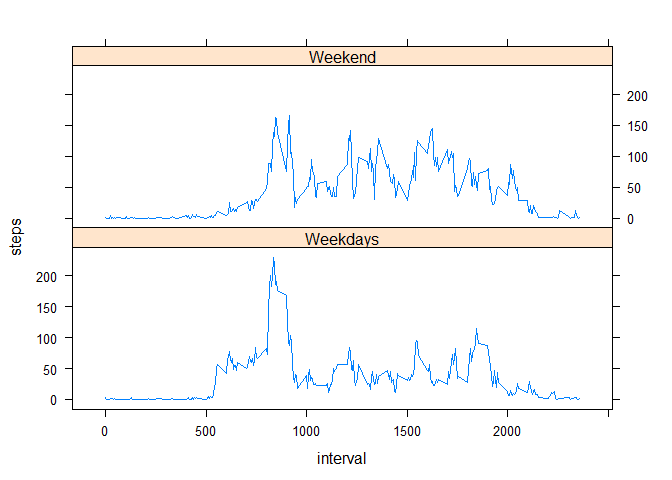
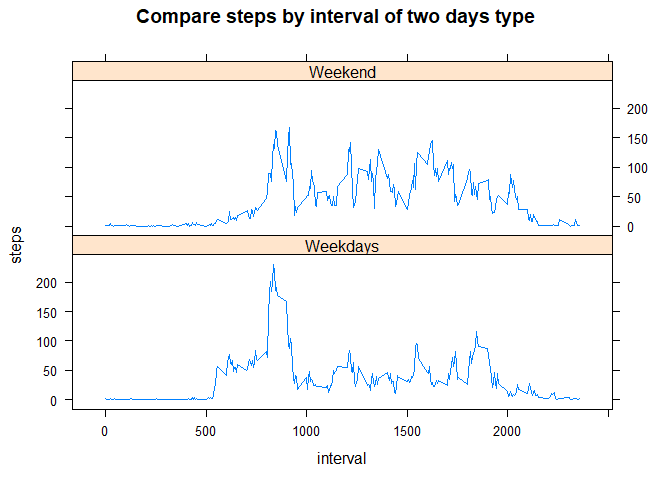
summit project fix2

diff --git a/PA1_template.html b/PA1_template.html
@@ -162,14 +162,18 @@ with(stepsPerInterval,plot(x = interval,y = steps,type=&quot;l&quot;))</code></p
 </div>
 <div id="which-5-minute-interval-on-average-across-all-the-days-in-the-dataset-contains-the-maximum-number-of-steps" class="section level3">
 <h3>2.Which 5-minute interval, on average across all the days in the dataset, contains the maximum number of steps?</h3>
-<pre class="r"><code>maxStepsInterval &lt;- stepsPerInterval$interval[which.max(stepsPerInterval$steps)]</code></pre>
+<pre class="r"><code>maxStepsInterval &lt;- stepsPerInterval$interval[which.max(stepsPerInterval$steps)]
+print(maxStepsInterval)</code></pre>
+<pre><code>## [1] 835</code></pre>
 </div>
 </div>
 <div id="imputing-missing-values" class="section level2">
 <h2>Imputing missing values</h2>
 <div id="calculate-and-report-the-total-number-of-missing-values-in-the-dataset-i.e.the-total-number-of-rows-with-nas" class="section level3">
 <h3>1.Calculate and report the total number of missing values in the dataset (i.e. the total number of rows with NAs)</h3>
-<pre class="r"><code>missing &lt;- nrow(dat_activity[!is.na(dat_activity),])</code></pre>
+<pre class="r"><code>missing &lt;- nrow(dat_activity[is.na(dat_activity),])
+print(missing)</code></pre>
+<pre><code>## [1] 2304</code></pre>
 </div>
 <div id="devise-a-strategy-for-filling-in-all-of-the-missing-values-in-the-dataset." class="section level3">
 <h3>2.Devise a strategy for filling in all of the missing values in the dataset.</h3>
@@ -209,7 +213,8 @@ hist(totalStepsPerDayFill$steps,xlab = &quot;Total number of steps per day&quot;
 </div>
 <div id="create-a-new-factor-variable-in-the-dataset-with-two-levels-weekday-and-weekend-indicating-whether-a-given-date-is-a-weekday-or-weekend-day." class="section level3">
 <h3>1.Create a new factor variable in the dataset with two levels – “weekday” and “weekend” indicating whether a given date is a weekday or weekend day.</h3>
-<pre class="r"><code>Sys.setlocale(&quot;LC_ALL&quot;,&quot;English&quot;)
+<pre class="r"><code>#at first change language to English by default
+Sys.setlocale(&quot;LC_ALL&quot;,&quot;English&quot;)
 fill_activity$daytype &lt;- &quot;Weekdays&quot;
 fill_activity$daytype[weekdays(as.Date(fill_activity$date)) %in% c(&quot;Saturday&quot;, &quot;Sunday&quot;)] &lt;- &quot;Weekend&quot;</code></pre>
 </div>
@@ -221,8 +226,8 @@ interStepsAllDayType &lt;- aggregate(steps ~ interval * daytype,
                                   FUN = mean)
 xyplot(steps~interval | daytype ,
        data = interStepsAllDayType,
-       layout=c(1,2),type=&quot;l&quot;)</code></pre>
[1 lines of base64/hex data omitted]
+       layout=c(1,2),type=&quot;l&quot;,main=&quot;Compare steps by interval of two days type&quot;)</code></pre>
[1 lines of base64/hex data omitted]
 </div>
 </div>
 

diff --git a/PA1_template.md b/PA1_template.md
@@ -62,13 +62,23 @@ with(stepsPerInterval,plot(x = interval,y = steps,type="l"))
 
 ```r
 maxStepsInterval <- stepsPerInterval$interval[which.max(stepsPerInterval$steps)]
+print(maxStepsInterval)
+```
+
+```
+## [1] 835
 ```
 
 ## Imputing missing values
 ### 1.Calculate and report the total number of missing values in the dataset (i.e. the total number of rows with NAs)
 
 ```r
-missing <- nrow(dat_activity[!is.na(dat_activity),])
+missing <- nrow(dat_activity[is.na(dat_activity),])
+print(missing)
+```
+
+```
+## [1] 2304
 ```
 
 ### 2.Devise a strategy for filling in all of the missing values in the dataset. 
@@ -122,6 +132,7 @@ It does not seen to change to much about mean between fill or not fill data. But
 
 
 ```r
+#at first change language to English by default
 Sys.setlocale("LC_ALL","English")
 fill_activity$daytype <- "Weekdays"
 fill_activity$daytype[weekdays(as.Date(fill_activity$date)) %in% c("Saturday", "Sunday")] <- "Weekend"
@@ -136,7 +147,7 @@ interStepsAllDayType <- aggregate(steps ~ interval * daytype,
                                   FUN = mean)
 xyplot(steps~interval | daytype ,
        data = interStepsAllDayType,
-       layout=c(1,2),type="l")
+       layout=c(1,2),type="l",main="Compare steps by interval of two days type")
 ```
 
 ![](PA1_template_files/figure-html/panelplot-1.png)<!-- -->
